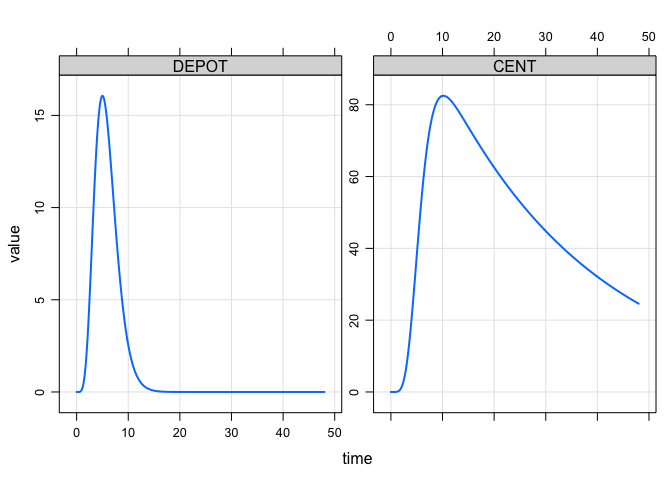
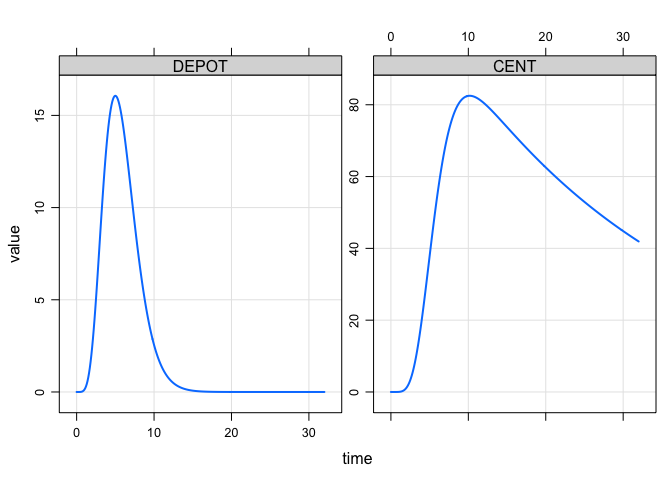
tweak

diff --git a/absorption/transit.md b/absorption/transit.md
@@ -26,6 +26,7 @@ MTT = 5, NN = 5,   BIO = 1
 [ cmt ] DEPOT CENT
 
 [ global ] 
+
 int NDOSE = 0;
 double dosetime[300];
 double dose[300];
@@ -68,7 +69,7 @@ dxdt_CENT = KTR * DEPOT - (CL/V) * CENT;
 # Examples
 
 ``` r
-mod <- mcode("transit", code, delta = 0.1, end = 48)
+mod <- mcode("transit", code, delta = 0.1, end = 32)
 mrgsim(mod, ev(amt = 100)) %>% plot()
 ```
 
